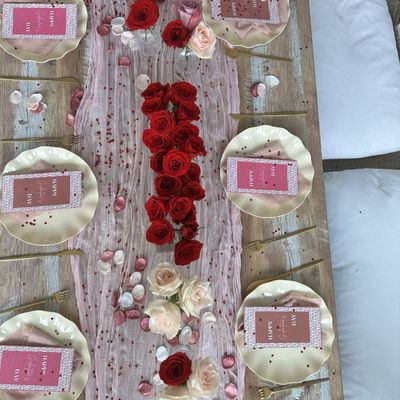
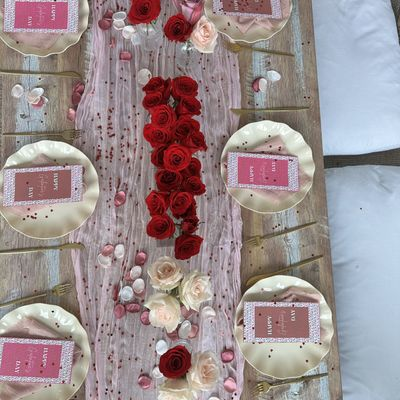
Branding, Experience, Other: layout fixes and photo re-enhancement
- Branding: move body copy left under the header, drop the duplicate
  blurb, leave the photo overlay text as-is
- Experience Overview: reduce type-h1 to type-h2 so the summary fits
  the viewport at once
- Other: remove the duplicate paragraph rendered after Crafting
- Re-export white-elephant-01, galentines-09, and headshot-02 from
  their original higher-resolution sources

diff --git a/src/components/other-section.tsx b/src/components/other-section.tsx
@@ -123,11 +123,10 @@ function CakeThread({
 
 /**
  * Crafting and customized gifts, as one EventFeature. The block's heading
- * is the module's label, so it is not repeated above the image; the body
- * copy follows the strip. The feature is the full custom garment design,
- * the strip draws on curated gifting and the bachelorette work, which is
- * exactly the "personalized gifts and custom pieces for milestones" the
- * copy describes.
+ * is the module's label, so it is not repeated above the image. The
+ * feature is the full custom garment design, the strip draws on curated
+ * gifting and the bachelorette work, which is exactly the "personalized
+ * gifts and custom pieces for milestones" the copy describes.
  */
 function CraftingThread() {
   const strip = [
@@ -136,13 +135,10 @@ function CraftingThread() {
   ];
 
   return (
-    <div>
-      <EventFeature
-        title={other.subHeading ?? ""}
-        featureImage={featured("curated-gifting")}
-        strip={strip}
-      />
-      <p className="mt-block max-w-prose type-lead">{other.body}</p>
-    </div>
+    <EventFeature
+      title={other.subHeading ?? ""}
+      featureImage={featured("curated-gifting")}
+      strip={strip}
+    />
   );
 }

diff --git a/src/content/images.ts b/src/content/images.ts
@@ -83,8 +83,8 @@ export const images: ImageAsset[] = [
     webp: 'public/images/about/headshots/headshot-02.webp',
     jpg: 'public/images/about/headshots/headshot-02.jpg',
     thumbnail: 'public/images/about/headshots/headshot-02_thumb.jpg',
-    width: 1079,
-    height: 1559,
+    width: 1246,
+    height: 1800,
     alt: 'Christina Moore smiling in a black top on a rooftop terrace, city skyline and train tracks in the background',
   },
 
@@ -95,8 +95,8 @@ export const images: ImageAsset[] = [
     webp: 'public/images/branding/white-elephant/white-elephant-01.webp',
     jpg: 'public/images/branding/white-elephant/white-elephant-01.jpg',
     thumbnail: 'public/images/branding/white-elephant/white-elephant-01_thumb.jpg',
-    width: 1013,
-    height: 1350,
+    width: 1350,
+    height: 1800,
     alt: 'Holiday dinner table set for seven at night, black napkins tied with red ribbon on white plates, a red runner, and a wine bottle nestled in a berry-and-ice centerpiece, city lights through the window',
     featured: true,
   },

diff --git a/src/components/branding-section.tsx b/src/components/branding-section.tsx
@@ -58,13 +58,10 @@ export function BrandingSection() {
               <span className="label-bar">{branding.eyebrow}</span>
             </div>
             <h2 className="type-display">{branding.title}</h2>
-            {branding.blurb ? (
-              <p className="type-lead">{branding.blurb}</p>
+            {branding.body ? (
+              <p className="max-w-prose type-lead">{branding.body}</p>
             ) : null}
           </div>
-          <p className="max-w-prose md:col-span-6 md:col-start-7 md:self-end">
-            {branding.body}
-          </p>
         </Reveal>
 
         <Reveal>

diff --git a/src/components/experience/overview-view.tsx b/src/components/experience/overview-view.tsx
@@ -23,7 +23,7 @@ export function OverviewView() {
 
   return (
     <div ref={ref} className="group/draw flex flex-col items-start gap-block">
-      <p className="font-display type-h1 text-ink">
+      <p className="font-display type-h2 text-ink">
         {/* [display:inline-block] rather than the inline-block class: with
             the spacing token named "block", Tailwind also reads that class
             as inline-size: var(--spacing-block) and fixes every word box. */}
